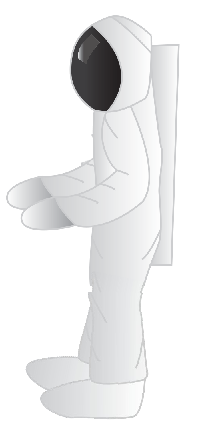
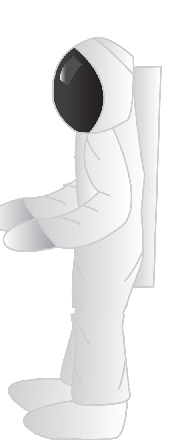
Fixed spawn point, floor height and character animation size

diff --git a/src/tsa2035/game/content/levels/level1/Level1.java b/src/tsa2035/game/content/levels/level1/Level1.java
@@ -15,7 +15,7 @@ public class Level1 extends Scene {
 		try {
 			setBackground(new SpriteBackground(TextureManager.getTextureFromResource("/tsa2035/game/content/images/common/wallpanels.png")));
 			addToScene("character", new MainCharacter(0,0));
-			addToScene("floor", new Sprite(0f, -0.5f, TextureManager.getTextureFromResource("/tsa2035/game/content/images/common/floor.png"))).setSolid(true);
+			addToScene("floor", new Sprite(0f, -0.98f, TextureManager.getTextureFromResource("/tsa2035/game/content/images/common/floor.png"))).setSolid(true);
 		} catch (IOException e) {
 			System.out.println("Texture loading failed!");
 			e.printStackTrace();

diff --git a/src/tsa2035/game/content/levels/MainCharacter.java b/src/tsa2035/game/content/levels/MainCharacter.java
@@ -8,7 +8,7 @@ import tsa2035.game.engine.texture.LoopedAnimatedTexture;
 public class MainCharacter extends AnimatedPlayer {
 
 	public MainCharacter(float x, float y) throws IOException {
-		super(0, 0, null, null, true, 0.5f, 0.01f);
+		super(-0.8f, -0.5f, null, null, true, 0.5f, 0.01f);
 		LoopedAnimatedTexture left = new LoopedAnimatedTexture("/tsa2035/game/content/character/left", "character", 13, 30);
 		LoopedAnimatedTexture right = new LoopedAnimatedTexture("/tsa2035/game/content/character/right", "character", 13, 30);
 		setAnimations(left, right);
